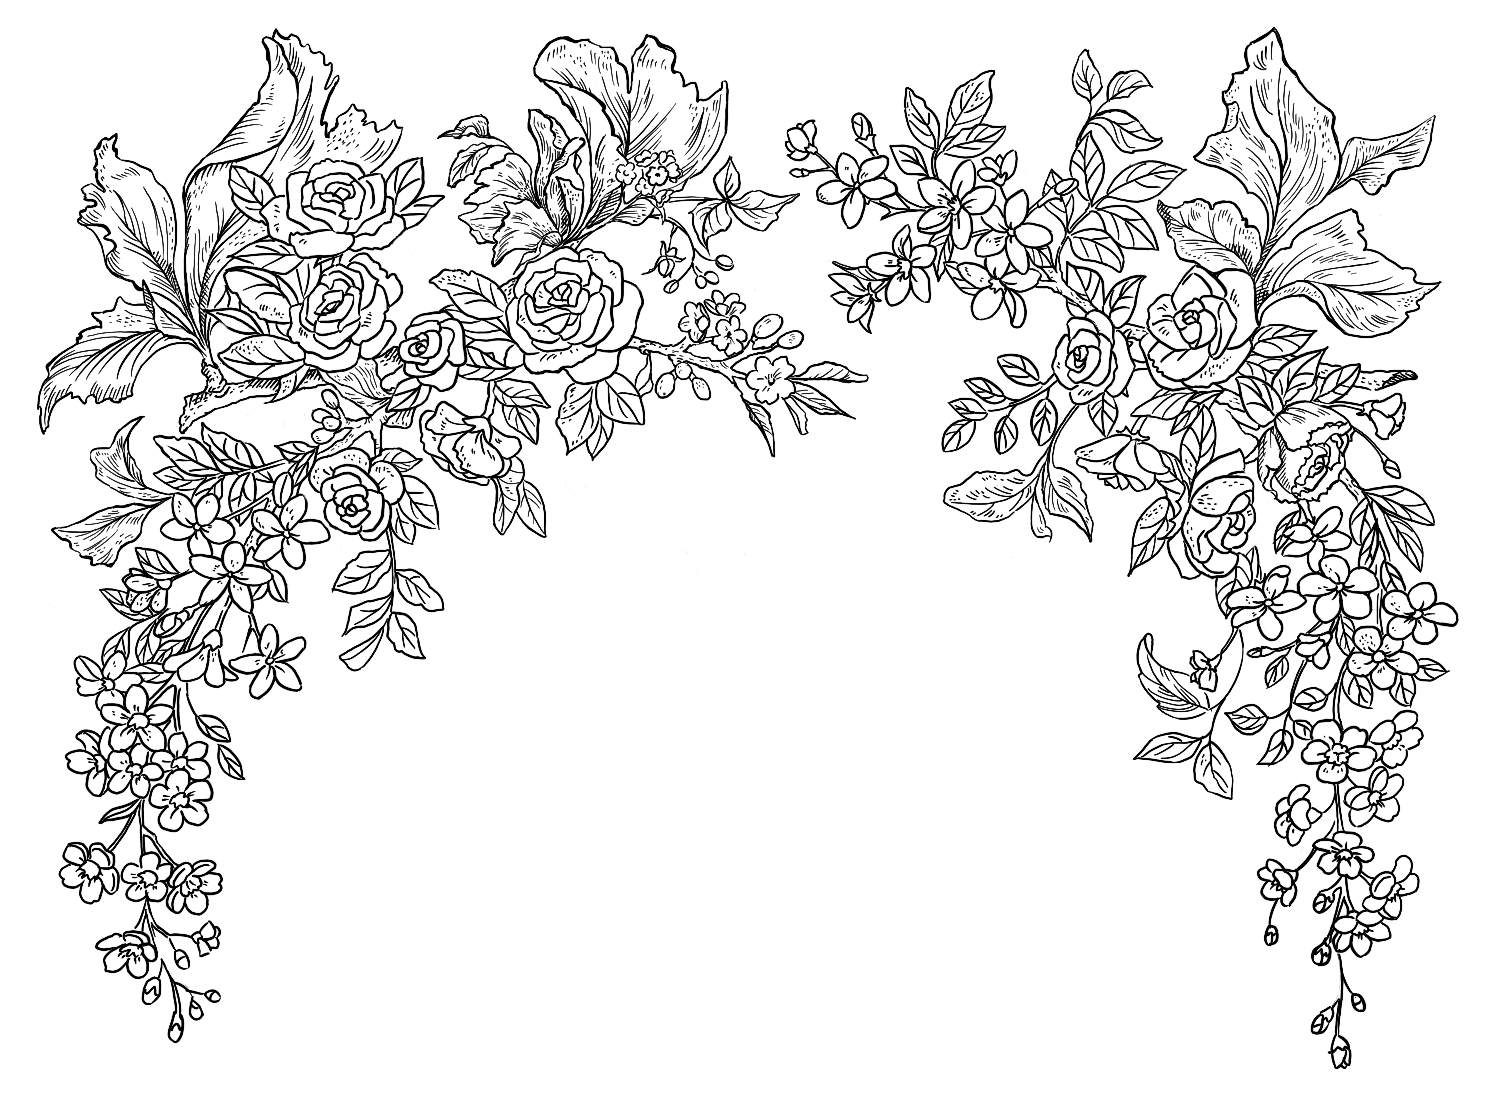
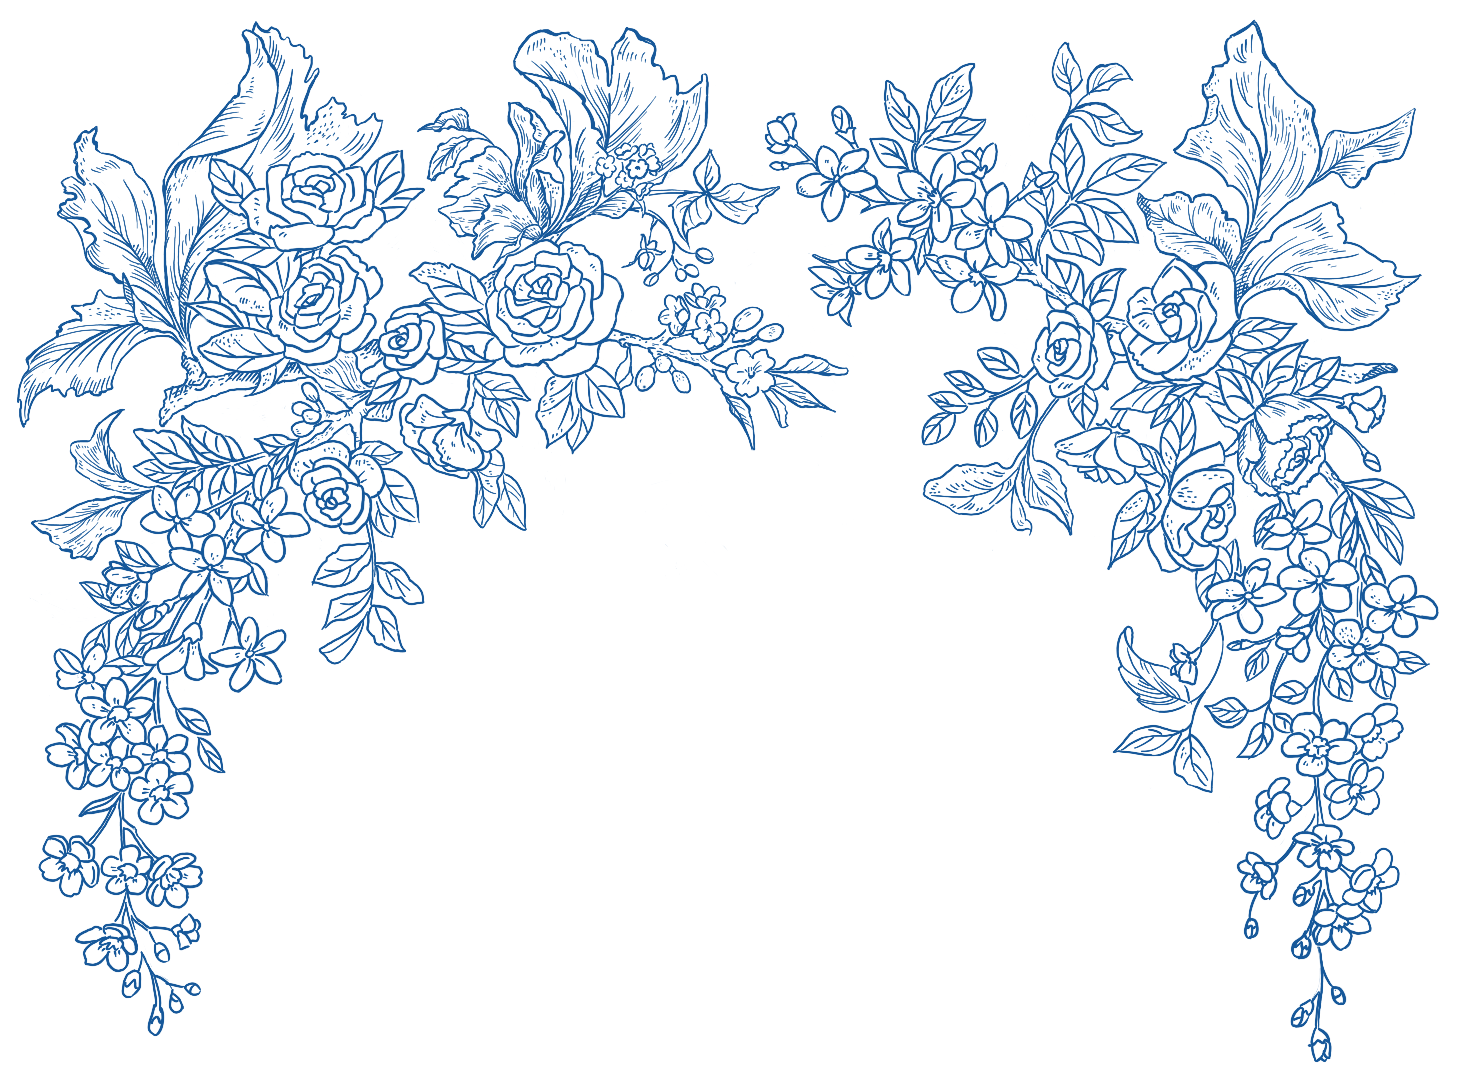
이미지 수정

Changed region(s): [[0.0, 0.0304, 0.987, 0.9742]]

diff --git a/src/components/Header.js b/src/components/Header.js
@@ -66,7 +66,6 @@ const archDecorImageStyle = {
     maxWidth: '550px',
     height: 'auto',
     zIndex: 1,
-    filter: 'invert(27%) sepia(51%) saturate(3500%) hue-rotate(191deg) brightness(80%) contrast(140%)',
     pointerEvents: 'none'
 };
 

diff --git a/src/components/Location.js b/src/components/Location.js
@@ -188,7 +188,7 @@ const mapImageContainerStyle = {
 const mapImageStyle = {
     width: '100%',
     height: 'auto',
-    display: 'block'
+    display: 'block',
 };
 
 const naviButtonGroupStyle = {
